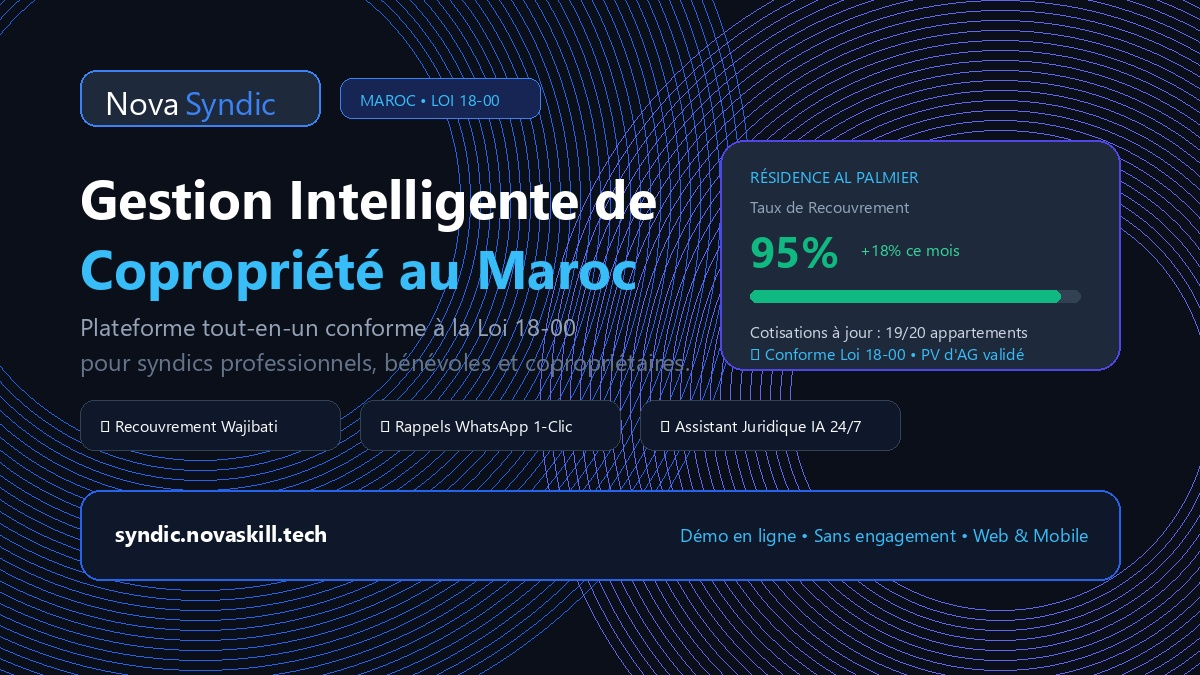
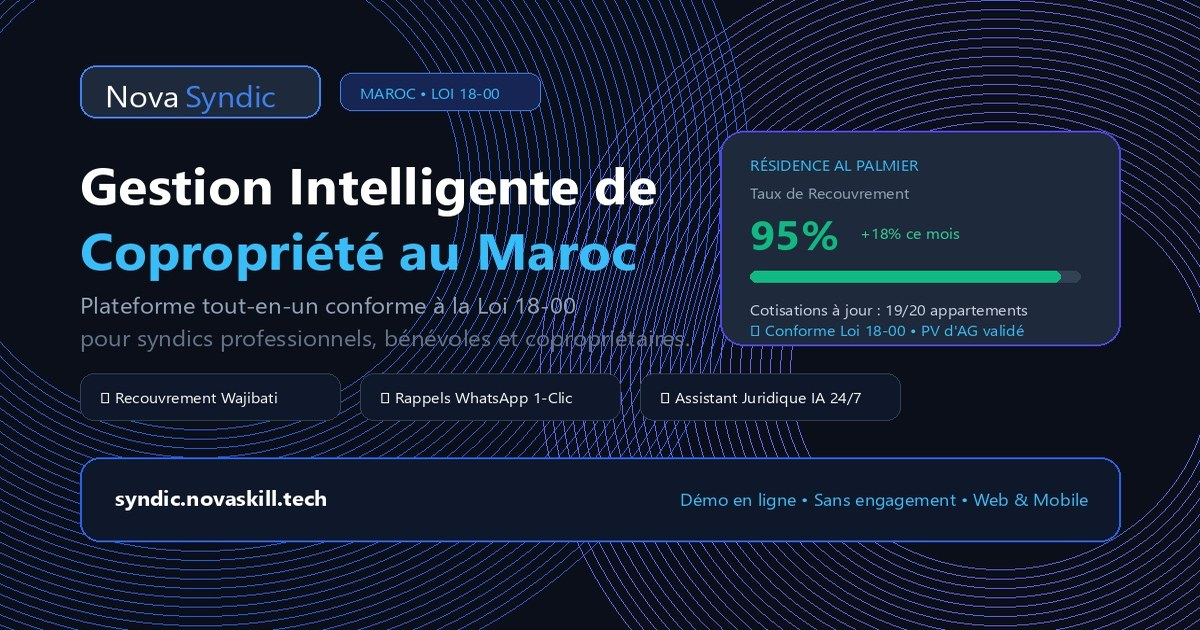
fix(og): optimize og-image to 225KB, 1200x630 and add cache-buster for WhatsApp link preview

diff --git a/index.html b/index.html
@@ -15,15 +15,15 @@
     <!-- Open Graph / Facebook / WhatsApp / LinkedIn -->
     <meta property="og:type" content="website">
     <meta property="og:url" content="https://syndic.novaskill.tech/">
-    <meta property="og:site_name" content="Nova Syndic Maroc">
-    <meta property="og:title" content="نوفا سينديك المغرب — الإدارة الذكية للملكية المشتركة والقانون 18.00">
-    <meta property="og:description" content="الحل الرقمي الأول بالمغرب لتسيير الإقامات والسانديك وفق القانون 18.00. استخلاص الواجبات Wajibati، تذكير بالواتساب، ومساعد قانوني بالذكاء الاصطناعي.">
-    <meta property="og:image" content="https://syndic.novaskill.tech/og-image.jpg">
-    <meta property="og:image:secure_url" content="https://syndic.novaskill.tech/og-image.jpg">
+    <meta property="og:site_name" content="Nova Syndic">
+    <meta property="og:title" content="Nova Syndic Maroc — Gestion Intelligente de Copropriété">
+    <meta property="og:description" content="Plateforme de gestion de copropriété au Maroc conforme à la Loi 18-00. Recouvrement des charges Wajibati, relances WhatsApp et assistant IA juriste.">
+    <meta property="og:image" content="https://syndic.novaskill.tech/og-image.jpg?v=2">
+    <meta property="og:image:secure_url" content="https://syndic.novaskill.tech/og-image.jpg?v=2">
     <meta property="og:image:type" content="image/jpeg">
     <meta property="og:image:width" content="1200">
-    <meta property="og:image:height" content="675">
-    <meta property="og:image:alt" content="Nova Syndic Maroc — Gestion de Copropriété et Loi 18-00">
+    <meta property="og:image:height" content="630">
+    <meta property="og:image:alt" content="Nova Syndic Maroc — Gestion de Copropriété">
     <meta property="og:locale" content="ar_MA">
     <meta property="og:locale:alternate" content="fr_FR">
 
